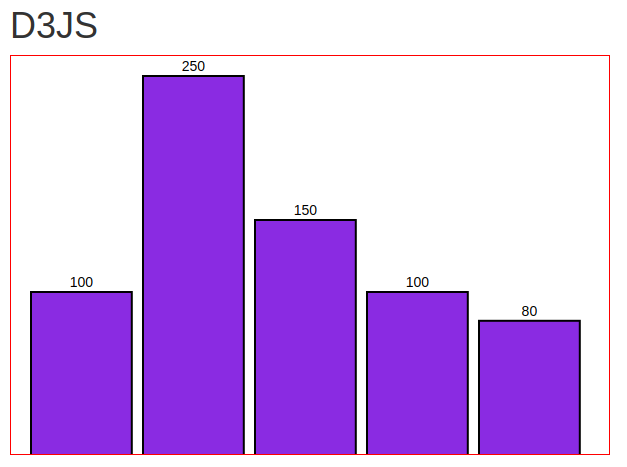
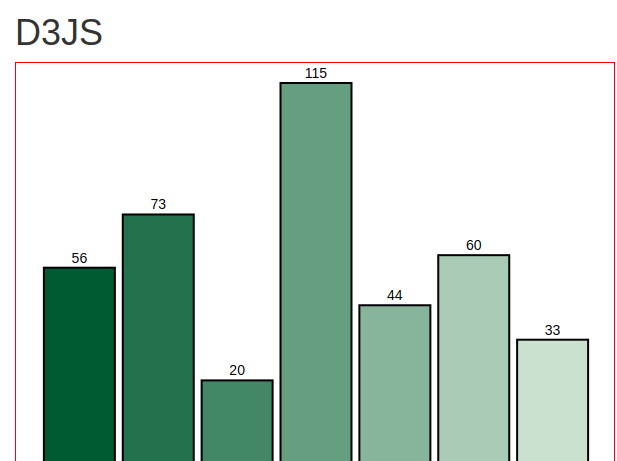
color into graffic

diff --git a/index.js b/index.js
@@ -8,12 +8,20 @@ function iniciar(){
     infererio: 20
   }
   
-  let dados = [100, 250, 150, 100, 80];
+  let dados = [
+    { nome: 'Frango', quantidade: 56 },
+    { nome: 'Carne', quantidade: 73 },
+    { nome: 'Vegetariano', quantidade: 20 },
+    { nome: 'Queijo', quantidade: 115 },
+    { nome: 'Goibada', quantidade: 44 },
+    { nome: 'Banana', quantidade: 60 },
+    { nome: 'Calabresa', quantidade: 33 }
+  ];
   const largura = 600;
   const altura = 400;
-  const min = d3.min(dados)
-  const max = d3.max(dados)
-  const faix = d3.extent(dados) // retorna um vetor minimo e maximo.
+  const min = d3.min(dados.map(d => d.quantidade)); //retorna menor valor
+  const max = d3.max(dados.map(d => d.quantidade)); //
+  const faixa = d3.extent(dados); // retorna um vetor minimo e maximo.
   let svg = d3.select('#grafico');
   svg.attr('width', largura).attr('height', altura);
  
@@ -23,29 +31,39 @@ function iniciar(){
   
   const larguraPlotagem = (largura - margem.esquerda -margem.direita); 
   const alturaPlotagem = (altura - margem.superior - margem.infererio);
-  const x = d3.scaleLinear().domain([0,dados.length]).range([0, larguraPlotagem]);
-  const y = d3.scaleLinear().domain([0, max]).range([alturaPlotagem, 0]);
+  const x = d3.scaleBand()
+              .domain(dados.map(d => d.nome) )
+              .range([0, larguraPlotagem])
+              .padding(0.1);
+  const y = d3.scaleLinear()
+              .domain([0, d3.max(dados.map(d => d.quantidade))])
+              .range([alturaPlotagem, 0]);
+  const cores = d3.scaleLinear()
+                  .domain([0, dados.length])
+                  .range(['#005a32', '#edf8e9'])
 
     plotagem.selectAll('.barra')
     .data(dados)
     .enter() //trata elementos a mais
       .append('rect')
       .classed('barra', true)
-      .attr('x',(d, i) => x(i))
-      .attr('y',  d=> y(d))
-      .attr('width', x(1)*0.9)
-      .attr('height', d => altura - y(d))
+      .attr('x',d => x(d.nome))
+      .attr('y',  d=> y(d.quantidade))
+      .attr('width', x.bandwidth())
+      .attr('height', d => altura - y(d.quantidade))
+      .attr('fill', (d,i) => cores(i));
 
     plotagem.selectAll('.rotulo')
     .data(dados)
     .enter() //trata elementos a mais
       .append('text')
       .classed('rotulo', true)
-      .text(d => d)
-      .attr('x', (d, i) => x(i))
-      .attr('y', d => y(d))
-      .attr('dx', d => x(1)*.9*0.5)
+      .text(d => d.quantidade)
+      .attr('x', d => x(d.nome))
+      .attr('y', d => y(d.quantidade))
+      .attr('dx', d => x.bandwidth()*0.5)
       .attr('dy', -5)
+
   //divs.exit() //trata os elementos a menos.
   //   .remove()
 }

diff --git a/index.css b/index.css
@@ -3,7 +3,6 @@
 }
 
 .barra {
-    fill: blueviolet;
     stroke: black;
     stroke-width: 2px;
 }
